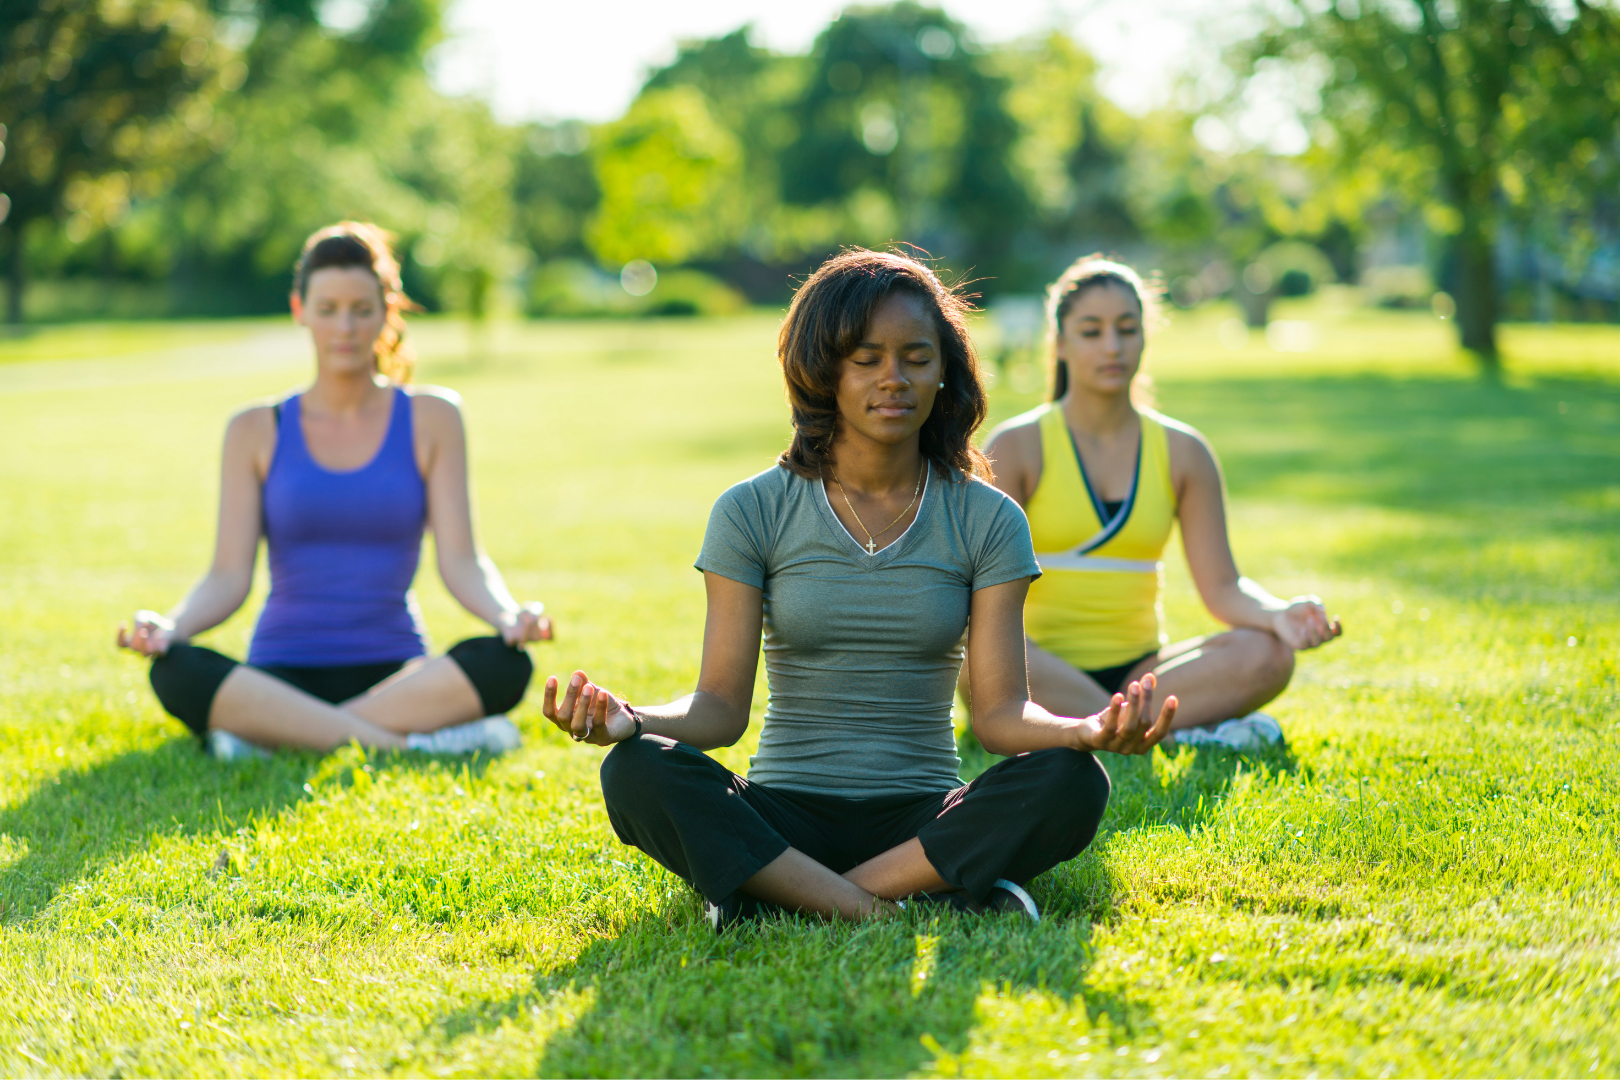
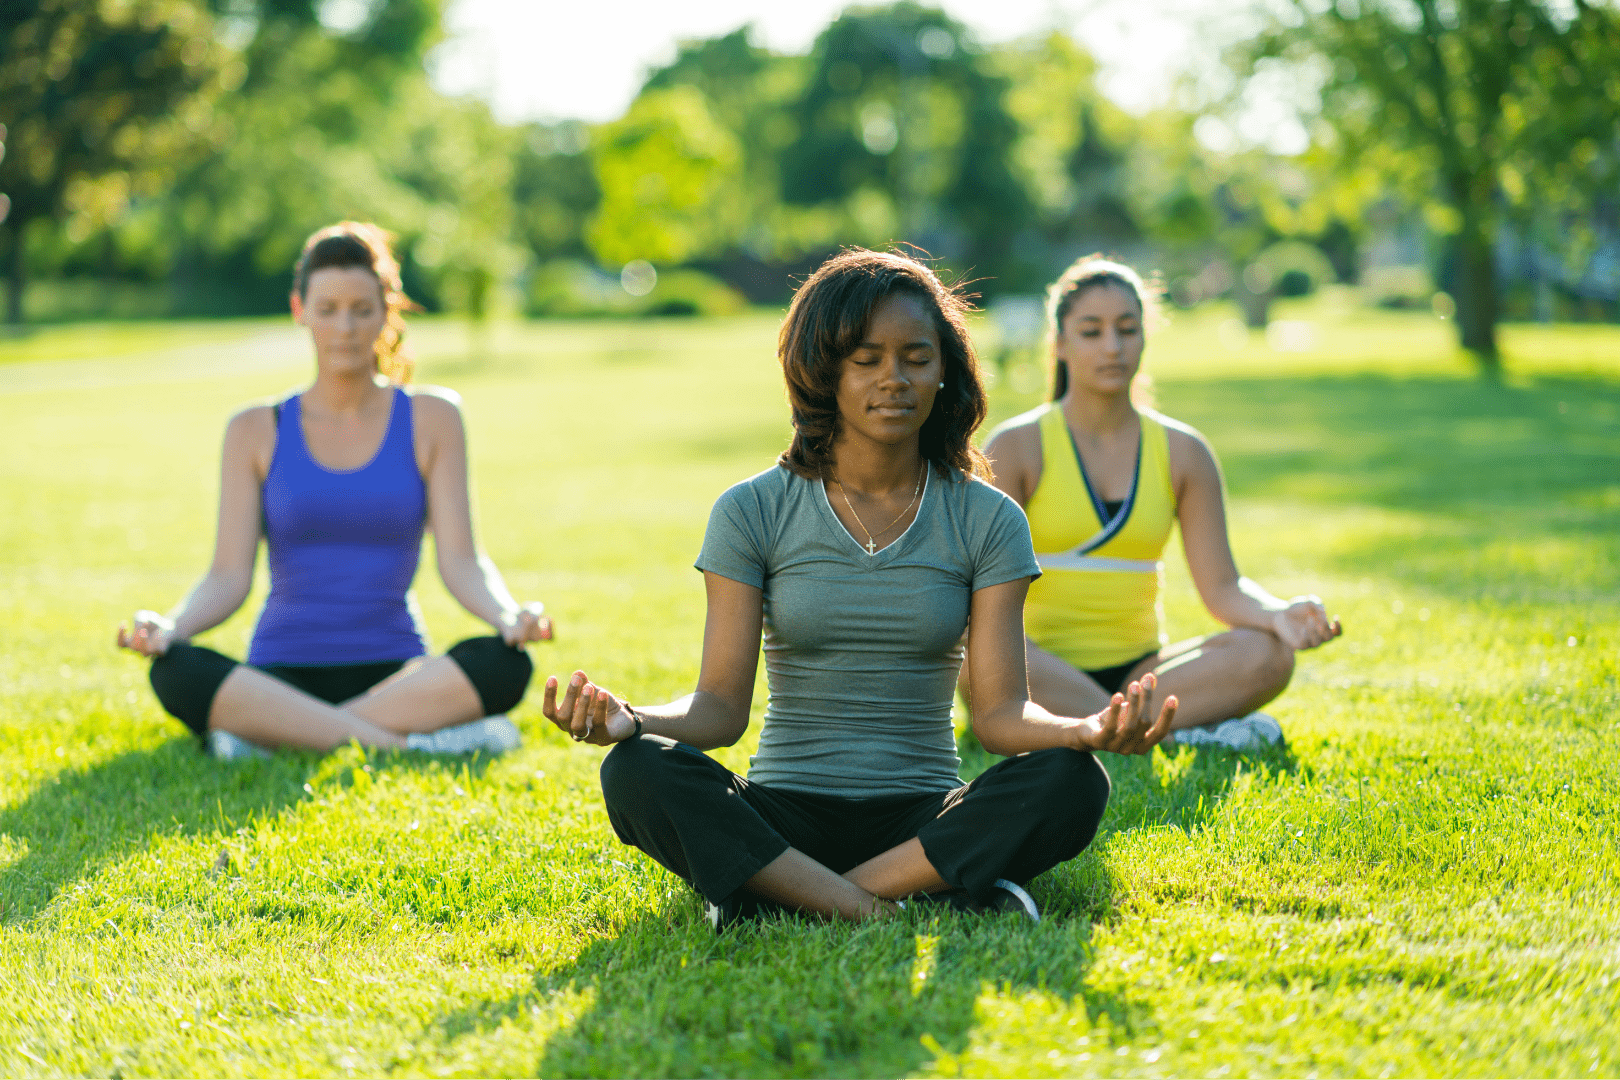
redução tamanho das imagens

Changed region(s): [[0.679, 0.55, 0.7099, 0.5806], [0.679, 0.4583, 0.7099, 0.4889]]

diff --git a/src/constants/texts/generalInformation.js b/src/constants/texts/generalInformation.js
@@ -2,7 +2,7 @@ export const subtitle = " Espaço voltado para práticas de Yoga, Meditação e 
 
 
 export const heading1 = "Equilíbrio Corpo & Mente"
-export const text1 ="Yoga é uma prática, um estilo de vida que integra o corpo e mente, desenvolvendo a consciência corporal, equilibrando as emoções e estimulando o fortalecimento e flexibilidade do corpo."
+export const text1 ="Yoga é uma prática que integra o corpo e a mente, desenvolvendo a consciência corporal, equilibrando as emoções e estimulando o fortalecimento e flexibilidade do corpo."
 
 export const heading2 = "Fortalece o corpo físico"
 export const text2 ="Praticar yoga relaxa, corrige a postura, dá energia, aumenta a flexibilidade, tonifica os músculos e ajuda a prevenir doenças."

diff --git a/src/pages/mainPage/components/general/General.js b/src/pages/mainPage/components/general/General.js
@@ -3,7 +3,7 @@ import { heading1, heading2, heading3, subtitle, text1, text2, text3 } from '../
 import { InformationCard } from './components/InfomationCard'
 import { AiFillHeart } from "react-icons/ai";
 import { BsFillMoonStarsFill } from "react-icons/bs";
-import { GiWeightLiftingUp } from "react-icons/gi";
+import { GiStrong } from "react-icons/gi";
 
 
 export const General = () => {
@@ -34,7 +34,7 @@ export const General = () => {
                 <InformationCard
                     title={heading2}
                     text={text2}
-                    Icon={<GiWeightLiftingUp size={"60px"} />}
+                    Icon={<GiStrong size={"60px"} />}
                     color={"gold"}
                 />
                 <InformationCard
